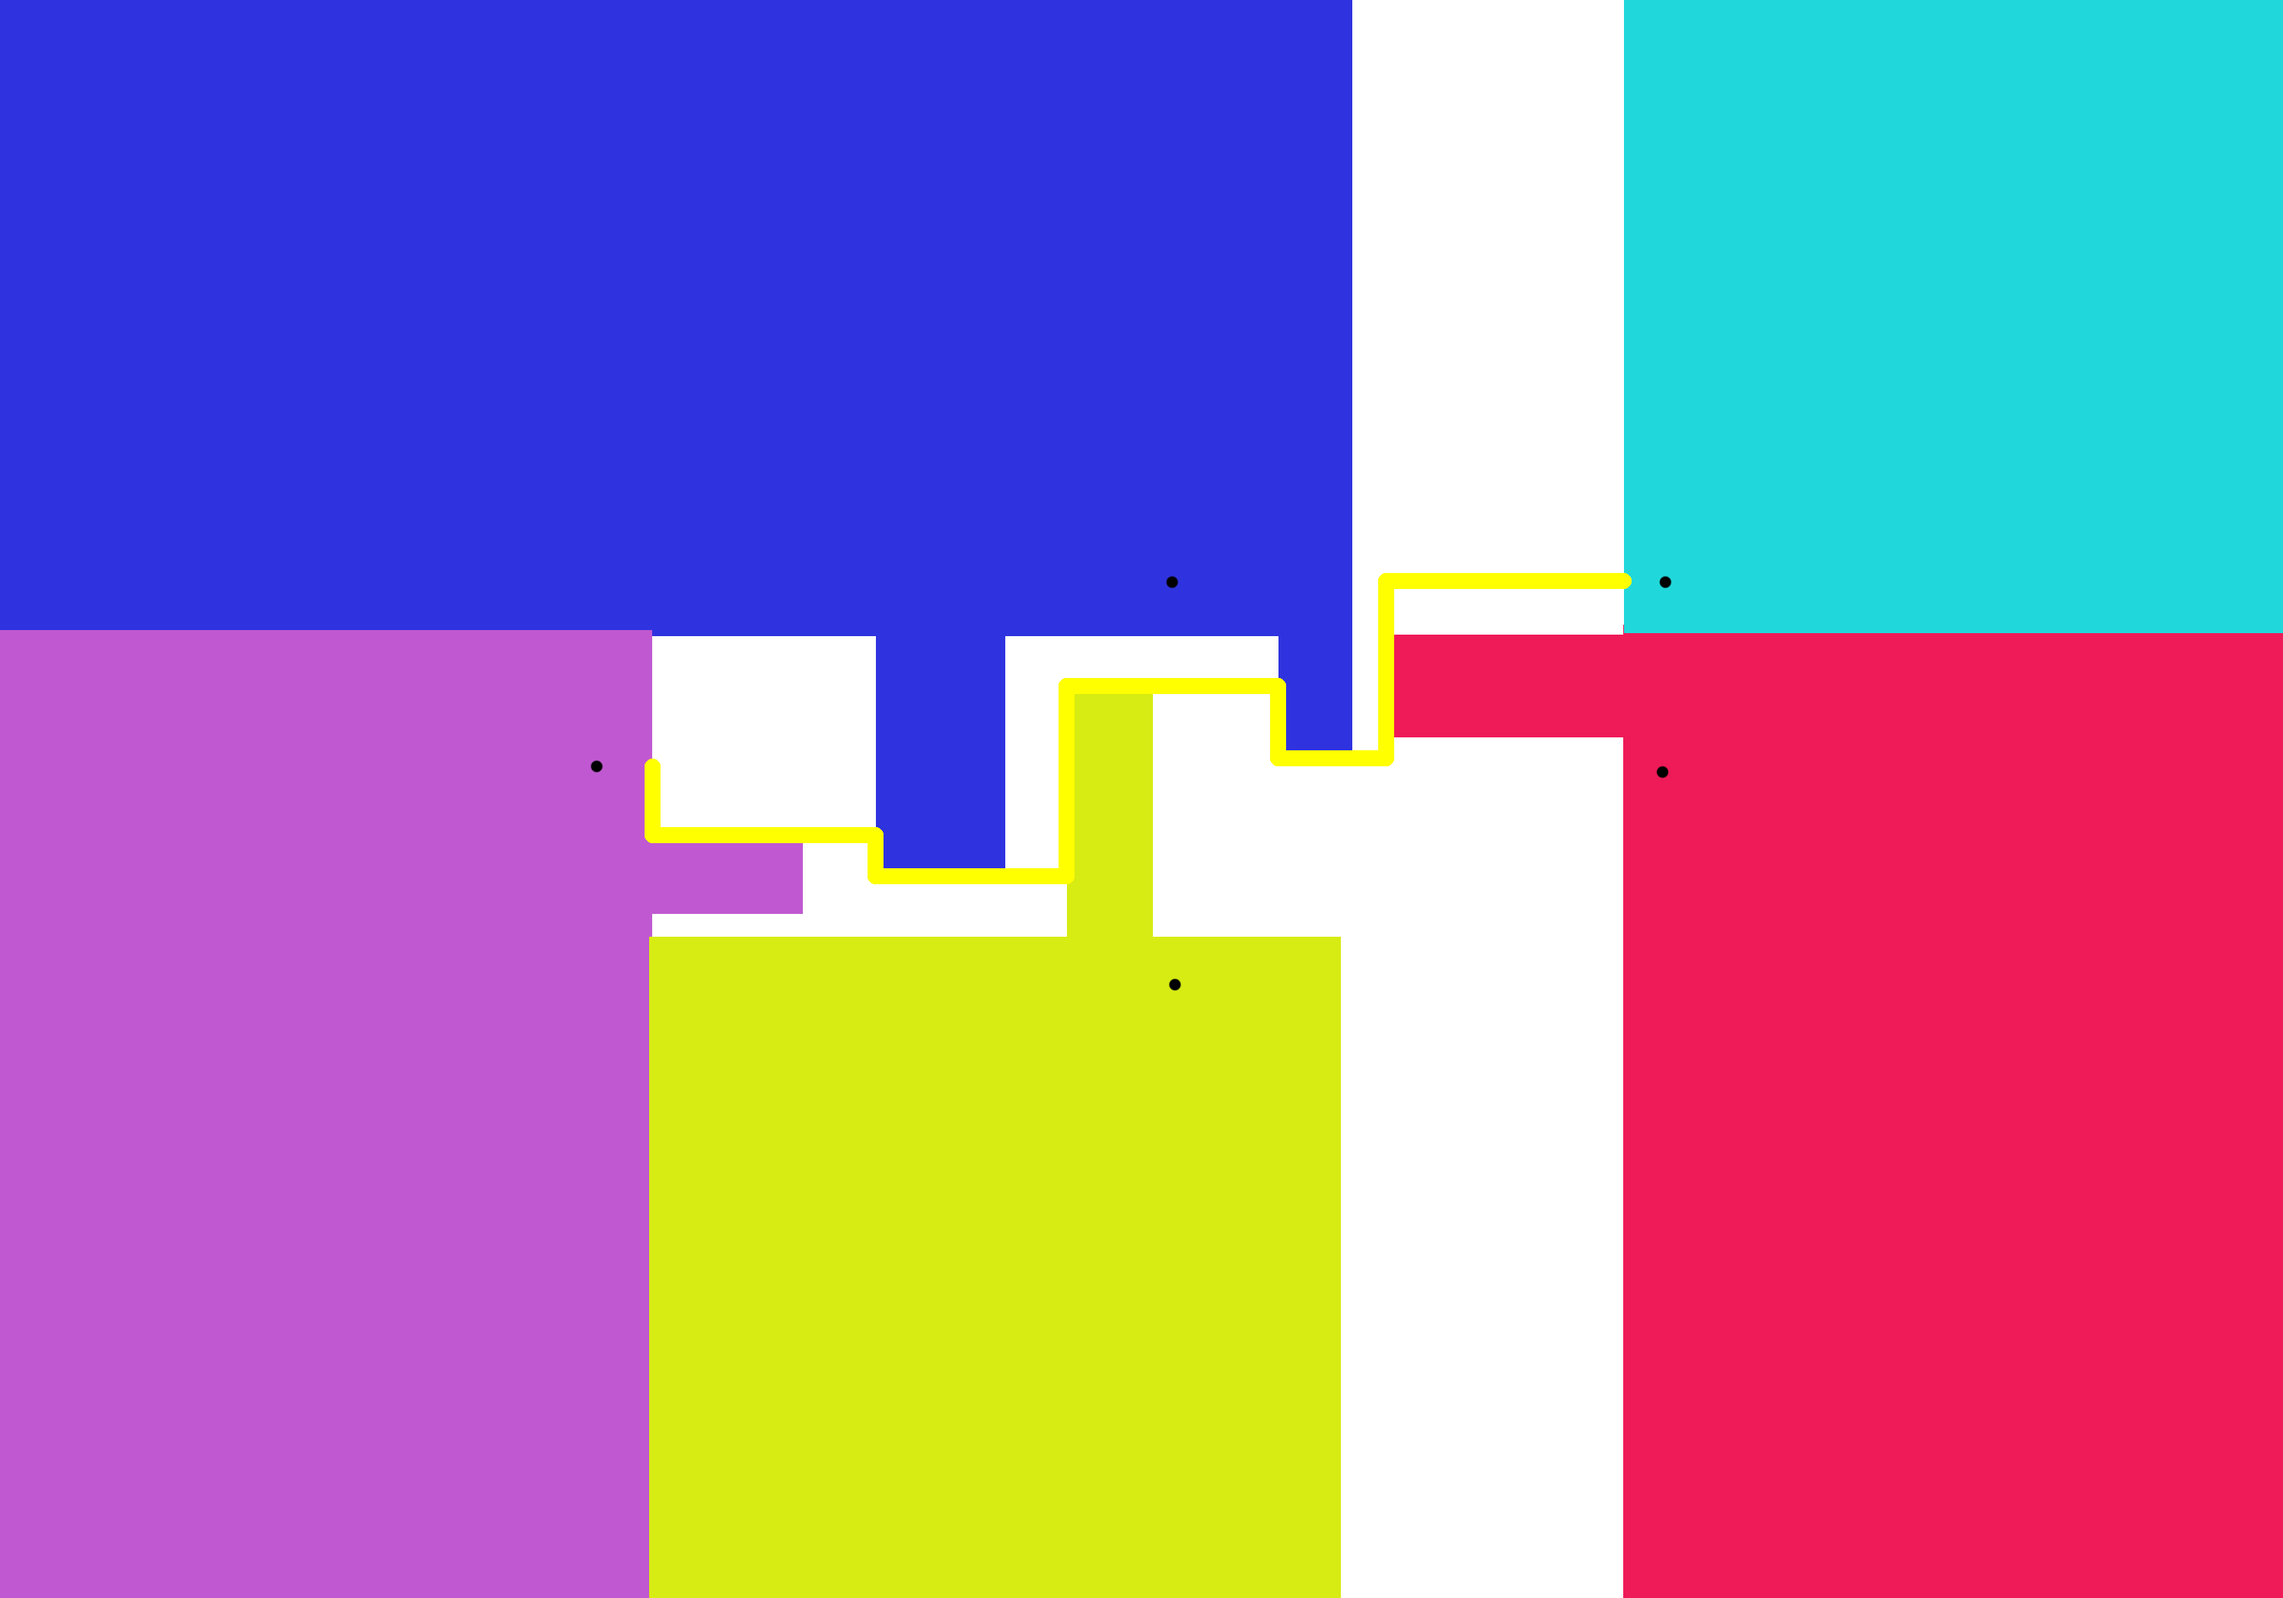
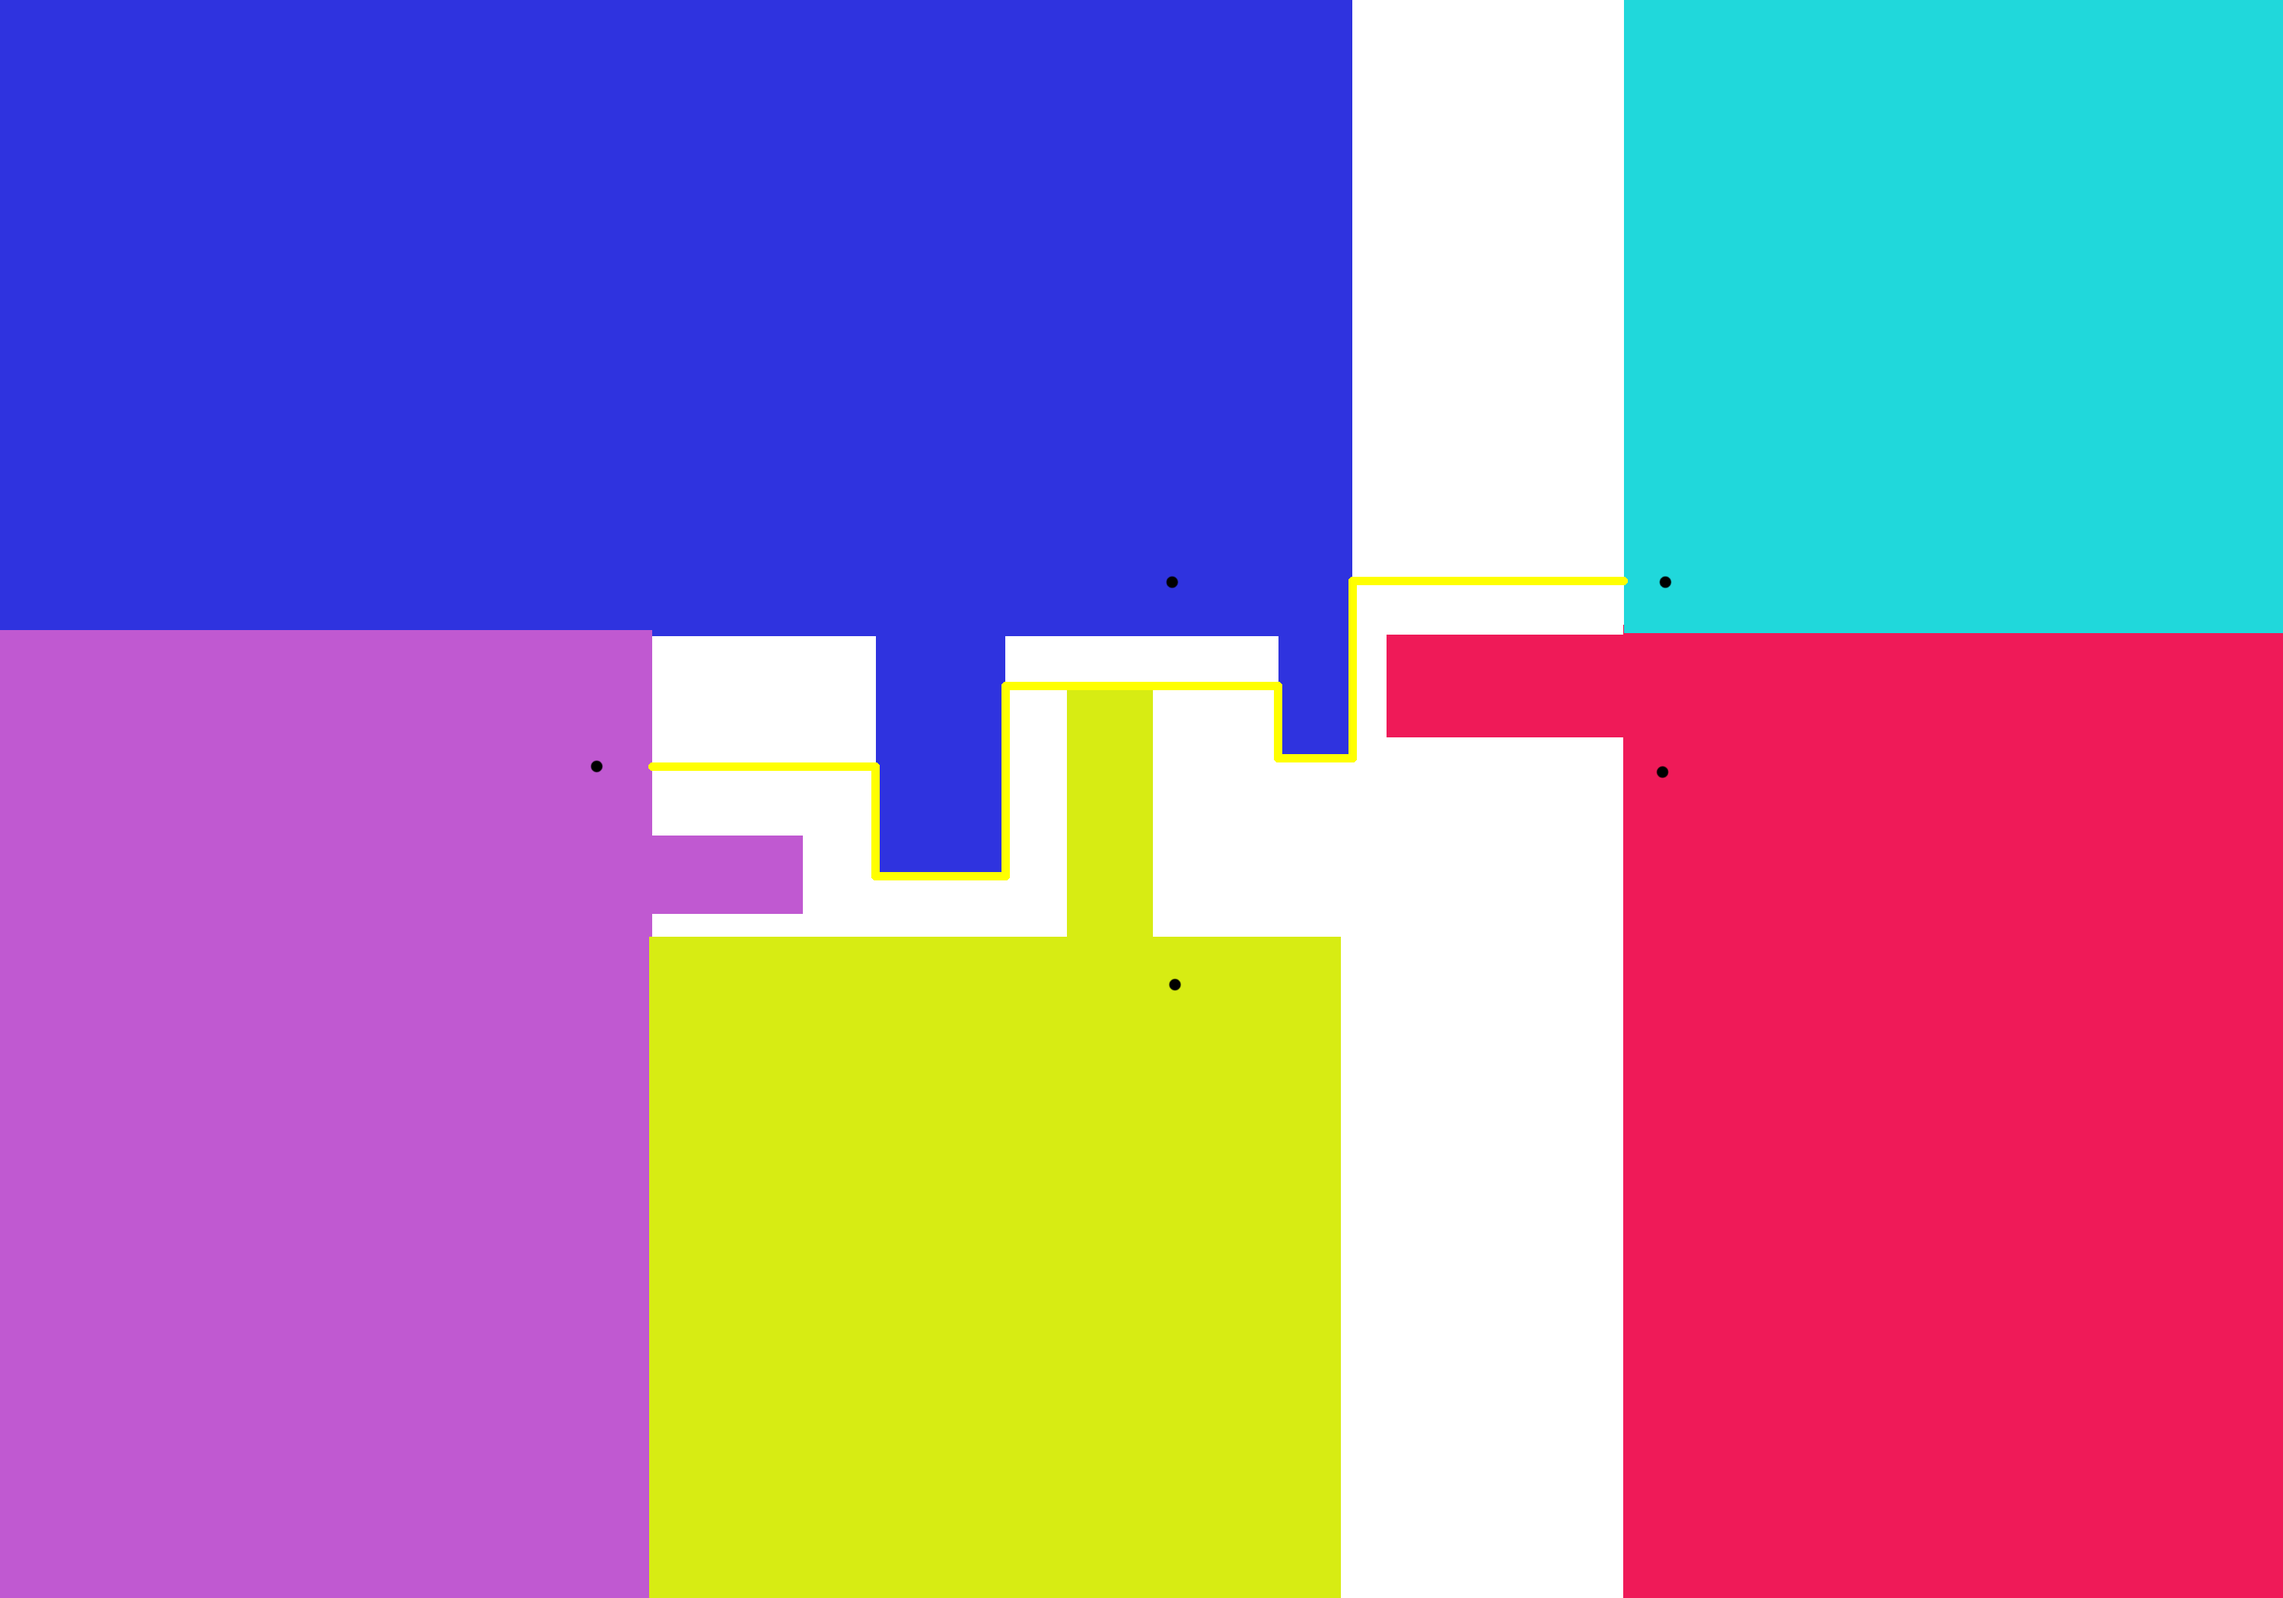
implemented a star algorithm

Changed region(s): [[0.279, 0.4024, 0.558, 0.5571], [0.558, 0.3405, 0.713, 0.4952]]

diff --git a/path_finder.py b/path_finder.py
@@ -1,129 +1,132 @@
 from PIL import Image, ImageDraw
 import heapq
-import math
 import numpy as np
 
 def load_image(image_path):
+    """Load an image from the given path."""
     return Image.open(image_path)
 
 def save_image(image, output_path):
+    """Save the image to the given path."""
     image.save(output_path)
 
-# we will find nearest waypoint to the given pixel
-# first go to up find white pixel and define it as waypoint, also define its distance
-# make same thing for down, left and right pixels but if distance is smaller than previous one
-# return nearest waypoint's coordinates and distance
 def find_nearest_waypoint(image, pixel, target_color):
     width, height = image.size
     x, y = pixel
-    distance = float('inf')
     nearest_waypoint = None
+    min_distance = float('inf')
 
-    for i in range(y):
-        if image.getpixel((x, y - i))[0:3] == target_color:
-            if i < distance:
-                distance = i
-                nearest_waypoint = (x, y - i)
-            break
+    for i in range(max(width, height)):
+        checks = [
+            (x, y - i),  # Up
+            (x, y + i),  # Down
+            (x - i, y),  # Left
+            (x + i, y)   # Right
+        ]
 
-    for i in range(height - y):
-        if image.getpixel((x, y + i))[0:3] == target_color:
-            if i < distance:
-                distance = i
-                nearest_waypoint = (x, y + i)
-            break
-
-    for i in range(x):
-        if image.getpixel((x - i, y))[0:3] == target_color:
-            if i < distance:
-                distance = i
-                nearest_waypoint = (x - i, y)
-            break
-
-    for i in range(width - x):
-        if image.getpixel((x + i, y))[0:3] == target_color:
-            if i < distance:
-                distance = i
-                nearest_waypoint = (x + i, y)
-            break
+        for nx, ny in checks:
+            if 0 <= nx < width and 0 <= ny < height and image.getpixel((nx, ny))[0:3] == target_color:
+                distance = abs(x - nx) + abs(y - ny)  # Manhattan distance
+                if distance < min_distance:
+                    min_distance = distance
+                    nearest_waypoint = (nx, ny)
+                    return nearest_waypoint  # Return immediately on finding the nearest waypoint
 
     return nearest_waypoint
 
-def find_shortest_path(start, end, is_valid, get_neighbors):
+
+def a_star_search(start, end):
+    """Perform A* search algorithm."""
     width, height = image.size
-    distance = np.full((width, height), float('inf'))
+    g_cost = np.full((width, height), float('inf'))
+    f_cost = np.full((width, height), float('inf'))
     rotation_count = np.zeros((width, height), dtype=int)
     visited = np.zeros((width, height), dtype=bool)
     parent = [[None] * height for _ in range(width)]
 
-    distance[start[0]][start[1]] = 0
-    start_direction = None  # Define initial direction if needed
-    pq = [(0, 0, start, start_direction)]  # Distance, Rotations, Position, Direction
+    g_cost[start[0]][start[1]] = 0
+    f_cost[start[0]][start[1]] = manhattan_heuristic(start, end)
+    pq = [(f_cost[start[0]][start[1]], start, None)]  # f-cost, Position, Direction
 
     while pq:
-        dist, rotations, current, direction = heapq.heappop(pq)
-        x, y = current
-
-        if current == end:
+        _, current, direction = heapq.heappop(pq)
+        if process_node(image, current, end, direction, visited, g_cost, rotation_count, f_cost, parent, pq):
             break
 
-        if visited[x][y]:
-            continue
+    return reconstruct_path(end, parent), rotation_count[end[0]][end[1]]
 
-        visited[x][y] = True
+def process_node(image, current, end, direction, visited, g_cost, rotation_count, f_cost, parent, pq):
+    """Process a single node in the A* search algorithm."""
+    x, y = current
+    if current == end:
+        return True
 
-        for neighbor, new_direction, rotation in get_neighbors(current, direction):
-            new_x, new_y = neighbor
+    if visited[x][y]:
+        return False
 
-            if not visited[new_x][new_y] and is_valid(neighbor):
-                new_dist = dist + 1
-                total_rotations = rotations + rotation
-                if new_dist < distance[new_x][new_y]:
-                    distance[new_x][new_y] = new_dist
-                    rotation_count[new_x][new_y] = total_rotations
-                    parent[new_x][new_y] = current
-                    heapq.heappush(pq, (new_dist, total_rotations, neighbor, new_direction))
-                elif new_dist == distance[new_x][new_y] and total_rotations < rotation_count[new_x][new_y]:
-                    rotation_count[new_x][new_y] = total_rotations
-                    parent[new_x][new_y] = current
-                    heapq.heappush(pq, (new_dist, total_rotations, neighbor, new_direction))
-                    
-    # Reconstruct the path
+    visited[x][y] = True
+
+    for neighbor, new_direction, rotation in get_neighbors(current, direction, image):
+        new_x, new_y = neighbor
+        tentative_g_cost = g_cost[x][y] + 1
+        total_rotations = rotation_count[x][y] + rotation
+
+        if tentative_g_cost < g_cost[new_x][new_y]:
+            parent[new_x][new_y] = current
+            g_cost[new_x][new_y] = tentative_g_cost
+            rotation_count[new_x][new_y] = total_rotations
+            f_cost[new_x][new_y] = tentative_g_cost + manhattan_heuristic(neighbor, end)
+            heapq.heappush(pq, (f_cost[new_x][new_y], neighbor, new_direction))
+    
+    return False
+
+def reconstruct_path(end, parent):
+    """Reconstruct the path from the end node to the start node."""
     path = []
     current = end
     while current is not None:
         path.append(current)
         current = parent[current[0]][current[1]]
+    return path[::-1]
 
-    return path[::-1], rotation_count[end[0]][end[1]]  # Return path and total rotations
+def get_neighbors(pixel, current_direction, image):
+    """Get all valid neighbors for the given pixel."""
+    x, y = pixel
+    directions = [(1, 0, "right"), (-1, 0, "left"), (0, 1, "down"), (0, -1, "up")]
+    neighbors = []
+    for dx, dy, new_direction in directions:
+        neighbor = (x + dx, y + dy)
+        if is_valid_pixel(neighbor, image, (255, 255, 255)):
+            rotation = 1 if new_direction != current_direction else 0
+            neighbors.append((neighbor, new_direction, rotation))
+    return neighbors
 
-def dijkstra(image, start_pixel, end_pixel, target_color):
+def is_valid_pixel(pixel, image, target_color):
+    """Check if a pixel is valid (i.e., matches the target color)."""
+    x, y = pixel
     width, height = image.size
+    return 0 <= x < width and 0 <= y < height and image.getpixel((x, y))[0:3] == target_color
 
-    def is_valid(pixel):
-        x, y = pixel
-        return 0 <= x < width and 0 <= y < height and image.getpixel((x, y))[0:3] == target_color
+def manhattan_heuristic(pixel, goal):
+    """Calculate the Manhattan distance from a pixel to the goal."""
+    return abs(pixel[0] - goal[0]) + abs(pixel[1] - goal[1])
 
-    def get_neighbors(pixel, current_direction):
-        x, y = pixel
-        directions = [(1, 0, "right"), (-1, 0, "left"), (0, 1, "down"), (0, -1, "up")]
-        neighbors = []
-        for dx, dy, new_direction in directions:
-            neighbor = (x + dx, y + dy)
-            if is_valid(neighbor):
-                rotation = 1 if new_direction != current_direction else 0
-                neighbors.append((neighbor, new_direction, rotation))
-        return neighbors
-
-    path, total_rotations = find_shortest_path(start_pixel, end_pixel, is_valid, get_neighbors)
-
+def draw_path(image, path, output_path):
+    """Draw the path on the image and save it."""
     image_with_path = image.copy()
     draw = ImageDraw.Draw(image_with_path)
+    size = 5
     for x, y in path:
-        # we will draw waypoints as circles
-        draw.ellipse((x - 10, y - 10, x + 10, y + 10), fill=(255, 255, 0))  # Paint the path yellow.
+        draw.ellipse((x - size, y - size, x + size, y + size), fill=(255, 255, 0))
+    save_image(image_with_path, output_path)
+    print(f"Path image saved as {output_path}")
 
-    return image_with_path, path, total_rotations
+def save_path_description(path, output_path):
+    """Save the textual path description to a file."""
+    description = describe_path(path)
+    with open(output_path, "w") as text_file:
+        text_file.write("\n".join(description))
+    print(f"Path description saved as {output_path}")
 
 def describe_path(path):
     description = []
@@ -132,32 +135,16 @@ def describe_path(path):
     distance = 0
 
     for x, y in path[1:]:
-        dx = x - prev_x
-        dy = y - prev_y
+        dx, dy = x - prev_x, y - prev_y
+        new_direction = get_direction(dx, dy)
 
-        if dx > 0:
-            direction = "right"
-        elif dx < 0:
-            direction = "left"
-        else:
-            direction = ""
-
-        if dy > 0:
-            direction = "down"
-        elif dy < 0:
-            direction = "up"
-
-        if direction != current_direction:
+        if new_direction != current_direction:
             if current_direction:
                 description.append(f"Turn {current_direction} and go ahead {distance} px")
-            if direction:
-                distance = max(abs(dx), abs(dy))
-            else:
-                distance = 0
-            current_direction = direction
-        else:
-            distance += max(abs(dx), abs(dy))
+            current_direction = new_direction
+            distance = 0
 
+        distance += max(abs(dx), abs(dy))
         prev_x, prev_y = x, y
 
     if current_direction:
@@ -165,7 +152,15 @@ def describe_path(path):
 
     return description
 
+def get_direction(dx, dy):
+    if dx > 0: return "right"
+    elif dx < 0: return "left"
+    elif dy > 0: return "down"
+    elif dy < 0: return "up"
+    return ""
+
 def main():
+    """Main function to execute the pathfinding algorithm."""
     global image
     input_image_path = "ev.png"
     output_image_path = "map_with_path.png"
@@ -173,18 +168,14 @@ def main():
 
     image = load_image(input_image_path)
     start_pixel = find_nearest_waypoint(image, (785, 1007), target_color)
-    end_pixel =  find_nearest_waypoint(image, (2186, 763), target_color)
+    end_pixel = find_nearest_waypoint(image, (2186, 763), target_color)
 
-    result_image, path, rotations = dijkstra(image, start_pixel, end_pixel, target_color)
-    save_image(result_image, output_image_path)
-    print(f"Path image saved as {output_image_path}")
-    print(f"Total rotations: {rotations}")
+    path, rotations = a_star_search(start_pixel, end_pixel)
+    print(f"Path found with {rotations} rotations")
+    draw_path(image, path, output_image_path)
 
     output_text_path = "path_description.txt"
-    path_description = describe_path(path)
-    with open(output_text_path, "w") as text_file:
-        text_file.write("\n".join(path_description))
-    print(f"Path description saved as {output_text_path}")
+    save_path_description(path, output_text_path)
 
 if __name__ == "__main__":
     main()
